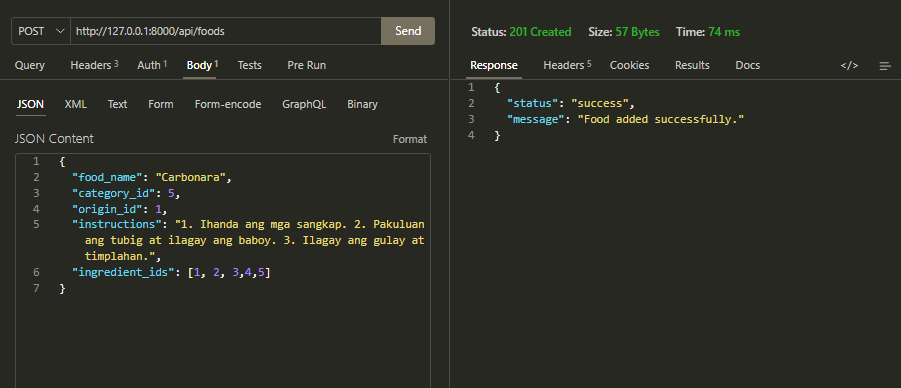
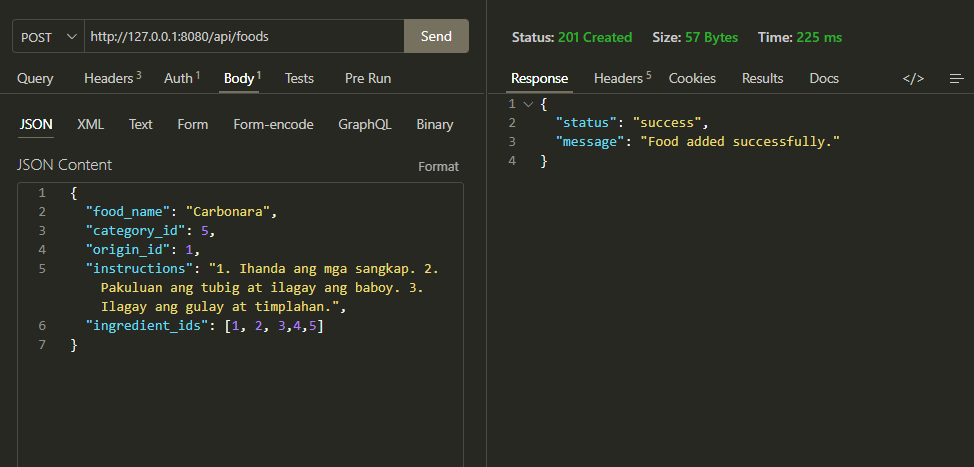
Update the URLs

diff --git a/README.md b/README.md
@@ -113,7 +113,7 @@ Start both services using the XAMPP Control Panel.
 Run the following command inside the project folder (terminal):
 
 ```bash
-php -S 127.0.0.1:8000 -t public public/index.php
+php -S 127.0.0.1:8080 -t public
 ```
 
 ### 8. Run the API
@@ -121,7 +121,7 @@ php -S 127.0.0.1:8000 -t public public/index.php
 Open:
 
 ```text
-http://127.0.0.1:8000/
+http://127.0.0.1:8080/api/foods
 ```
 
 
@@ -157,7 +157,7 @@ fooods -> food_ingredients <- ingredients
 
 ## Base URL
 ```text
-http://127.0.0.1:8000/
+http://127.0.0.1:8000/api/foods
 ```
 
 ## Authentication Instructions
@@ -218,7 +218,7 @@ GET /
 **Example request:**
 
 ```
-GET http://127.0.0.1:8000/
+GET http://127.0.0.1:8080/
 ```
 
 **Example successful response:**
@@ -250,7 +250,7 @@ Accept: application/json
 **Example request:**
 
 ```
-GET http://127.0.0.1:8000/api/foods
+GET http://127.0.0.1:8080/api/foods
 ```
 
 **Example successful response:**
@@ -305,7 +305,7 @@ Accept: application/json
 **Example request:**
 
 ```
-GET http://127.0.0.1:8000/api/foods/1
+GET http://127.0.0.1:8080/api/foods/1
 ```
 
 **Example successful response:**
@@ -360,7 +360,7 @@ Accept: application/json
 **Example request:**
 
 ```
-GET http://127.0.0.1:8000/api/foods/search/adobo
+GET http://127.0.0.1:8080/api/foods/search/adobo
 ```
 
 **Example successful response:**
@@ -418,7 +418,7 @@ Accept: application/json
 **Example request:**
 
 ```
-GET http://127.0.0.1:8000/api/categories
+GET http://127.0.0.1:8080/api/categories
 ```
 
 **Example successful response:**
@@ -469,7 +469,7 @@ Accept: application/json
 **Example request:**
 
 ```
-GET http://127.0.0.1:8000/api/categories/1/foods
+GET http://127.0.0.1:8080/api/categories/1/foods
 ```
 
 **Example successful response:**
@@ -528,7 +528,7 @@ Accept: application/json
 **Example request:**
 
 ```
-GET http://127.0.0.1:8000/api/categories/food-counts
+GET http://127.0.0.1:8080/api/categories/food-counts
 ```
 
 **Example successful response:**
@@ -581,7 +581,7 @@ Accept: application/json
 **Example request:**
 
 ```
-GET http://127.0.0.1:8000/api/ingredients
+GET http://127.0.0.1:8080/api/ingredients
 ```
 
 **Example successful response:**
@@ -632,7 +632,7 @@ Accept: application/json
 **Example request:**
 
 ```
-POST http://127.0.0.1:8000/api/foods
+POST http://127.0.0.1:8080/api/foods
 ```
 
 **Example Required JSON body:**
